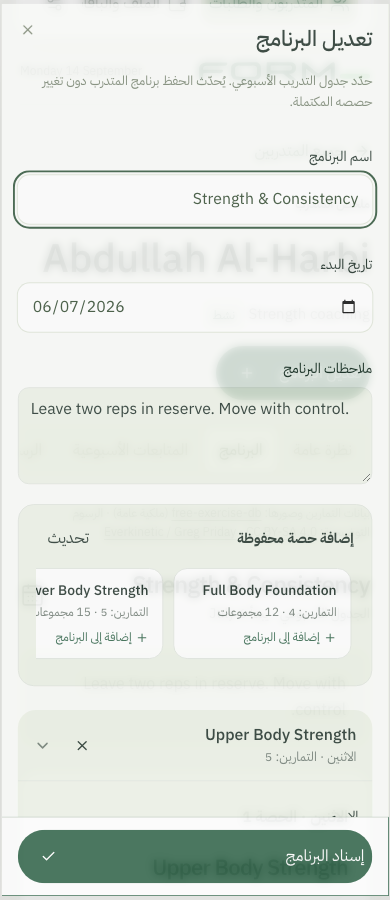
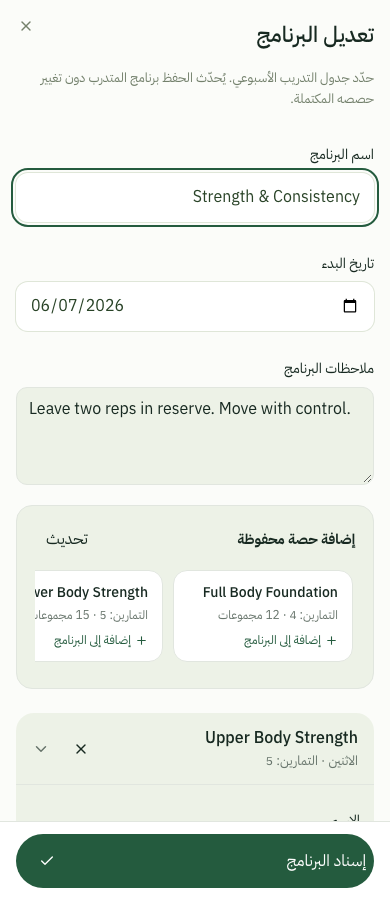
Capture Arabic review screenshots after transitions finish

diff --git a/tests/e2e/coach-arabic.spec.ts b/tests/e2e/coach-arabic.spec.ts
@@ -46,6 +46,7 @@ for (const width of [1440, 390]) {
     page.on('pageerror', (error) => errors.push(error.message));
     try {
       await page.screenshot({
+        animations: 'disabled',
         path: info.outputPath('english-clients.png'),
         fullPage: true,
       });
@@ -66,6 +67,7 @@ for (const width of [1440, 390]) {
         expect(sidebar!.x).toBeGreaterThan(content!.x + content!.width - 1);
       }
       await page.screenshot({
+        animations: 'disabled',
         path: info.outputPath('arabic-clients.png'),
         fullPage: true,
       });
@@ -93,6 +95,7 @@ for (const width of [1440, 390]) {
         .click();
       await expect(page.getByLabel('يوم التدريب').first()).toHaveValue('1');
       await page.screenshot({
+        animations: 'disabled',
         path: info.outputPath('arabic-program.png'),
         fullPage: false,
       });
@@ -167,6 +170,7 @@ for (const width of [1440, 390]) {
       await page.keyboard.press('Escape');
       await fits(page);
       await page.screenshot({
+        animations: 'disabled',
         path: info.outputPath('english-templates.png'),
         fullPage: true,
       });
@@ -177,6 +181,7 @@ for (const width of [1440, 390]) {
       await expect(page.getByLabel('التخصصات', { exact: true })).toBeVisible();
       await fits(page);
       await page.screenshot({
+        animations: 'disabled',
         path: info.outputPath('arabic-profile.png'),
         fullPage: true,
       });
